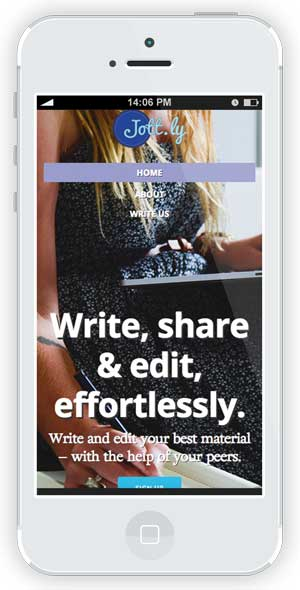
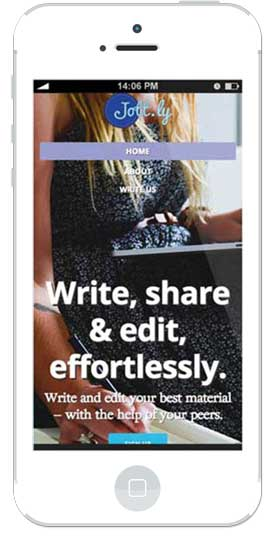
biography page draft

diff --git a/about.html b/about.html
@@ -1,0 +1,90 @@
+<!doctype html>
+<html class="no-js" lang="en">
+  <head>
+    <meta charset="utf-8" />
+    <meta name="viewport" content="width=device-width, initial-scale=1.0" />
+    <title>Marta Fieweger | UX Design & Other Things</title>
+    <link rel="shortcut icon" href="../favicon.ico" />
+    <link rel="stylesheet" href="stylesheets/app.css" />
+    <link rel="stylesheet" href="stylesheet/stylesheet.css" type="text/css" charset="utf-8" /> 
+    <link href='http://fonts.googleapis.com/css?family=Lato:400,700|Oswald' rel='stylesheet' type='text/css'>
+    <script src="bower_components/modernizr/modernizr.js"></script>
+    <script src="//use.typekit.net/sek6jxv.js"></script>
+    <script>try{Typekit.load();}catch(e){}</script>
+  </head>
+  <body>
+    <!--Header-->
+        <div class="contain-to-grid sticky">
+          <nav class="top-bar" data-topbar role="navigation" data-options="sticky_on: [medium,large]">
+           <ul class="title-area">
+                <li class="name">
+                  <h3><a href="index.html">MARTA H. FIEWEGER</a></h3>
+                </li>
+                <li class="toggle-topbar menu-icon"><a href="#"><span></span></a></li>
+              </ul>
+
+              <section class="top-bar-section">
+                <!-- Right Nav Section -->
+                <ul class="right">
+                      <li><a href="#">WORK</a></li>
+                      <li><a href="#">ABOUT</a></li>
+                      <li><a href="#">CONTACT</a></li>
+                </ul>
+          </nav>
+        </div>
+<!--Header End-->
+
+<!--Project Image -->
+    <div class="row">
+        <div class="small-8 small-centered columns" id="about">
+            <h1>MARTA FIEWEGER <span>ux designer</span></h1>
+        </div>
+    </div>
+<!--Project Image End -->
+
+<div class="container">
+    <div class="row">
+        <div class="small-11 small-centered columns">
+             <div class="row">
+                <div class="large-8 columns">
+                    <h4>a story</h4>
+                    <p>For years now, my dad has been telling me to "pick a sport." I always wanted to quip back, "Well, dad, I play lots of sports. It's fairly difficult to pick one." These sports are both literal and figurative, as my interests and talents find their homes in many arenas.</p>
+
+                    <p>At age six, I declared my life would be devoted to becoming a visual artist, mainly in the form of drawing and painting. While this declaration occurred early on, the path to the present is scattered with stints on stage, track and field victories, work in publishing, and time spent in the fashion industry.  Although I was able to excel along the way, none of the aforementioned sports stuck.</p> 
+
+
+                    <p>I’ve come to view this range of experience as an advantage, especially in the realm of UX design, which feels like my natural focus for the following reason: it’s a bunch of sports within a sport. Design is human-centered; it requires strong writing skills and verbal craftsmanship; it hinges on expressing ideals, goals, and emotions in clean, enjoyable interactions and attractive aesthetics. A true designer works to convey a client's needs and wants for the purpose of providing his or her customers and/or users a truly sublime user experience.</p>
+
+                    <p>UX Design is far more than the scrolling and swiping associated with modern web development. The goal of the browsing and swiping is what UX design facilitates, and while it involves a number of moving parts, its success is contingent upon fusing these parts to realize that end design goal.</p>
+
+
+                    <p class="final">While my relationship with design is just beginning, I believe that I can contribute by helping solve significant problems for my clients and peers.</p>
+
+                </div>
+                <div class="large-4 small-6 columns" id="user_research">
+                    <img id="me" src="images/IMG_7859.jpg">
+                </div>
+            </div>
+        </div>
+    </div>
+    
+
+<!--Footer-->
+<footer class="container" id="footer">
+    <div class="row">
+        <h5>THINK YOU MIGHT WANT TO PARTNER UP?</h5>
+    </div>
+    <div class="row">
+        <a href="#">contact me</a>
+    </div>
+    <div class="large-3 large-centered small-7 small-centered columns">
+        <h6>designed & developed by yours truly // &copy 2015</h6>
+    </div>
+</footer>
+<!--Footer End-->
+    <script src="bower_components/jquery/dist/jquery.min.js"></script>
+    <script src="bower_components/foundation/js/foundation.min.js"></script>
+    <script src="js/app.js"></script>
+    <script src="js/foundation/foundation.topbar.js"></script>
+  </body>
+</html>

diff --git a/stylesheets/app.css b/stylesheets/app.css
@@ -9668,32 +9668,51 @@ ul#foot_nav li a:hover {
 }
 
 /* line 479, ../scss/_overrides.scss */
+#phone {
+  margin-top: 15px !important;
+}
+
+/* Salvage Scheme */
+/* line 487, ../scss/_overrides.scss */
 #ss {
   margin-top: 50px;
 }
 
-/* line 483, ../scss/_overrides.scss */
+/* line 491, ../scss/_overrides.scss */
 #block {
   margin-top: 20px;
 }
 
-/* line 487, ../scss/_overrides.scss */
+/* line 495, ../scss/_overrides.scss */
 #vic {
   margin-top: 20px;
 }
 
-/* line 491, ../scss/_overrides.scss */
+/* line 499, ../scss/_overrides.scss */
 #ss_final {
   margin-bottom: 80px;
 }
 
-/* line 495, ../scss/_overrides.scss */
+/* line 503, ../scss/_overrides.scss */
 #dispatch {
   font-weight: 500;
   font-family: "proxima-nova", "lato", sans-serif;
   font-size: 16px;
   letter-spacing: 2px;
   text-align: left;
+}
+
+/* About */
+/* line 513, ../scss/_overrides.scss */
+#about {
+  margin-top: 80px;
+  margin-bottom: 80px;
+  text-align: center;
+}
+
+/* line 519, ../scss/_overrides.scss */
+#me {
+  margin-top: 50px;
 }
 
 @font-face {

diff --git a/jottly.html b/jottly.html
@@ -18,7 +18,7 @@
           <nav class="top-bar" data-topbar role="navigation" data-options="sticky_on: [medium,large]">
            <ul class="title-area">
                 <li class="name">
-                  <h3><a href="#">MARTA H. FIEWEGER</a></h3>
+                  <h3><a href="index.html">MARTA H. FIEWEGER</a></h3>
                 </li>
                 <li class="toggle-topbar menu-icon"><a href="#"><span></span></a></li>
               </ul>
@@ -64,7 +64,7 @@
                     <p>I landed on the typewriter button illustration and logotype combination, which was simple but still representative of Jott.ly’s core usage. In terms of color, I used cool blues to reflect the calm, fluid nature of the product and Jott.ly’s modern concept. Cool pink was used as an accent.</p>
                 </div>
                 <div class="large-4 columns">
-                    <img src="images/Jottly_iPhone.jpg">
+                    <img id="phone" src="images/Jottly_iPhone.jpg">
                 </div>
             </div>
         </div>

diff --git a/dispatch.html b/dispatch.html
@@ -18,7 +18,7 @@
           <nav class="top-bar" data-topbar role="navigation" data-options="sticky_on: [medium,large]">
            <ul class="title-area">
                 <li class="name">
-                  <h3><a href="#">MARTA H. FIEWEGER</a></h3>
+                  <h3><a href="index.html">MARTA H. FIEWEGER</a></h3>
                 </li>
                 <li class="toggle-topbar menu-icon"><a href="#"><span></span></a></li>
               </ul>

diff --git a/marvelmade.html b/marvelmade.html
@@ -18,7 +18,7 @@
           <nav class="top-bar" data-topbar role="navigation" data-options="sticky_on: [medium,large]">
            <ul class="title-area">
                 <li class="name">
-                  <h3><a href="#">MARTA H. FIEWEGER</a></h3>
+                  <h3><a href="index.html">MARTA H. FIEWEGER</a></h3>
                 </li>
                 <li class="toggle-topbar menu-icon"><a href="#"><span></span></a></li>
               </ul>

diff --git a/scss/_overrides.scss b/scss/_overrides.scss
@@ -476,6 +476,14 @@ ul#foot_nav
   margin-top: 20px;
 }
 
+#phone {
+  margin-top: 15px !important;
+}
+
+
+
+/* Salvage Scheme */
+
 #ss {
   margin-top: 50px;
 }
@@ -499,5 +507,17 @@ ul#foot_nav
   letter-spacing: 2px;
   text-align: left;
   }
+
+/* About */
+
+#about {
+  margin-top: 80px;
+  margin-bottom: 80px;
+  text-align: center;
+}
+
+#me {
+  margin-top: 50px;
+}
 
 
